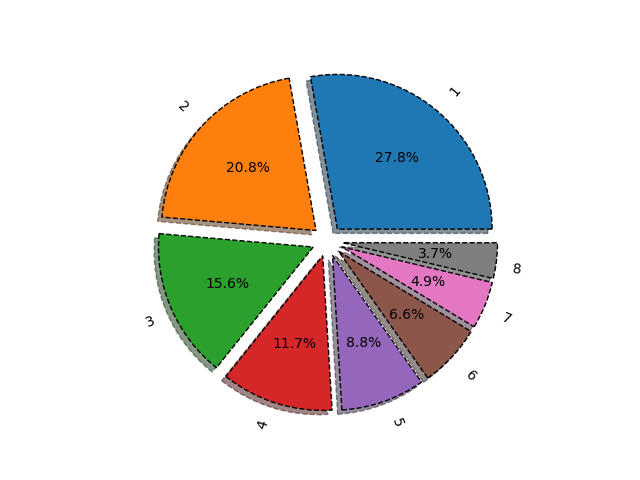
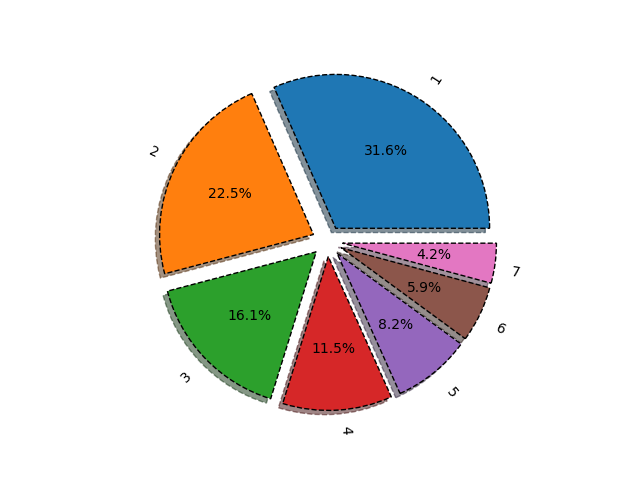
Изменения 2

diff --git a/main.py b/main.py
@@ -251,31 +251,31 @@ import os
 Sec_Korneev_2=os.environ['Sec_Korneev_2']
 print(Sec_Korneev_2)
 
-#Задание 2 (вариант 6)
+#Задание 2 (вариант 6) (изменения 2 на вариант 3)
 from sympy import *
 
 k, T, C, L = symbols('k C T L')
 
-C_ost_4 = 15000
+C_ost_4 = 30000
 Am_lst_4 = []
 C_ost_lst_4 = []
-for i in range(8):
+for i in range(7):
     Am = (C - L) / T
-    C_ost_4 -= Am.subs({C: 15000, T: 8, L: 0})
-    Am_lst_4.append(round(Am.subs({C: 15000, T: 8, L: 0}), 2))
+    C_ost_4 -= Am.subs({C: 30000, T: 7, L: 0})
+    Am_lst_4.append(round(Am.subs({C: 30000, T: 7, L: 0}), 2))
     C_ost_lst_4.append(round(C_ost_4, 2))
 print('Am_lst_4:', Am_lst_4)
 print('C_ost_lst_4:', C_ost_lst_4)
 
 #2-ой способ 
 Aj = 0
-C_ost_4 = 15000
+C_ost_4 = 30000
 Am_lst_2_4 = []
 C_ost_lst_2_4 = []
-for i in range(8):
+for i in range(7):
     Am = k * 1 / T * (C - Aj)
-    C_ost_4 -= Am.subs({C: 15000, T: 8, k: 2})
-    Am_lst_2_4.append(round(Am.subs({C: 15000, T: 8, k: 2}), 2))
+    C_ost_4 -= Am.subs({C: 30000, T: 7, k: 2})
+    Am_lst_2_4.append(round(Am.subs({C: 30000, T: 7, k: 2}), 2))
     Aj += Am
     C_ost_lst_2_4.append(round(C_ost_4, 2))
 print('Am_lst_2_4:', Am_lst_2_4)
@@ -284,7 +284,7 @@ print('C_ost_lst_2_4:', C_ost_lst_2_4)
 #Таблица 
 import pandas as pd
 
-Y = range(1, 9)
+Y = range(1, 8)
 table1 = list(zip(Y, C_ost_lst_4, Am_lst_4))
 table2 = list(zip(Y, C_ost_lst_2_4, Am_lst_2_4))
 tframe = pd.DataFrame(table1, columns=['Y', 'C_ost_lst_4', 'Am_lst_4'])
@@ -305,8 +305,8 @@ plt.savefig('chart8.png')#Что делает? Сохраняет текущий
 
 #Круговая диаграмма 
 vals = Am_lst_4
-labels = [str(x) for x in range(1, 9)]
-explode = (0.1, 0.1, 0.1, 0.1, 0.1, 0.1, 0.1,0.1)
+labels = [str(x) for x in range(1, 8)]
+explode = (0.1, 0.1, 0.1, 0.1, 0.1, 0.1, 0.1)
 fig, ax = plt.subplots()
 ax.pie(vals,
        labels=labels,
@@ -324,8 +324,8 @@ plt.savefig('chart9.png')
 
 #Круговая диаграмма (данные от 2-го способа)
 vals = Am_lst_2_4
-labels = [str(x) for x in range(1, 9)]
-explode = (0.1, 0.1, 0.1, 0.1, 0.1, 0.1, 0.1,0.1)
+labels = [str(x) for x in range(1, 8)]
+explode = (0.1, 0.1, 0.1, 0.1, 0.1, 0.1, 0.1,)
 fig, ax = plt.subplots()
 ax.pie(vals,
        labels=labels,
